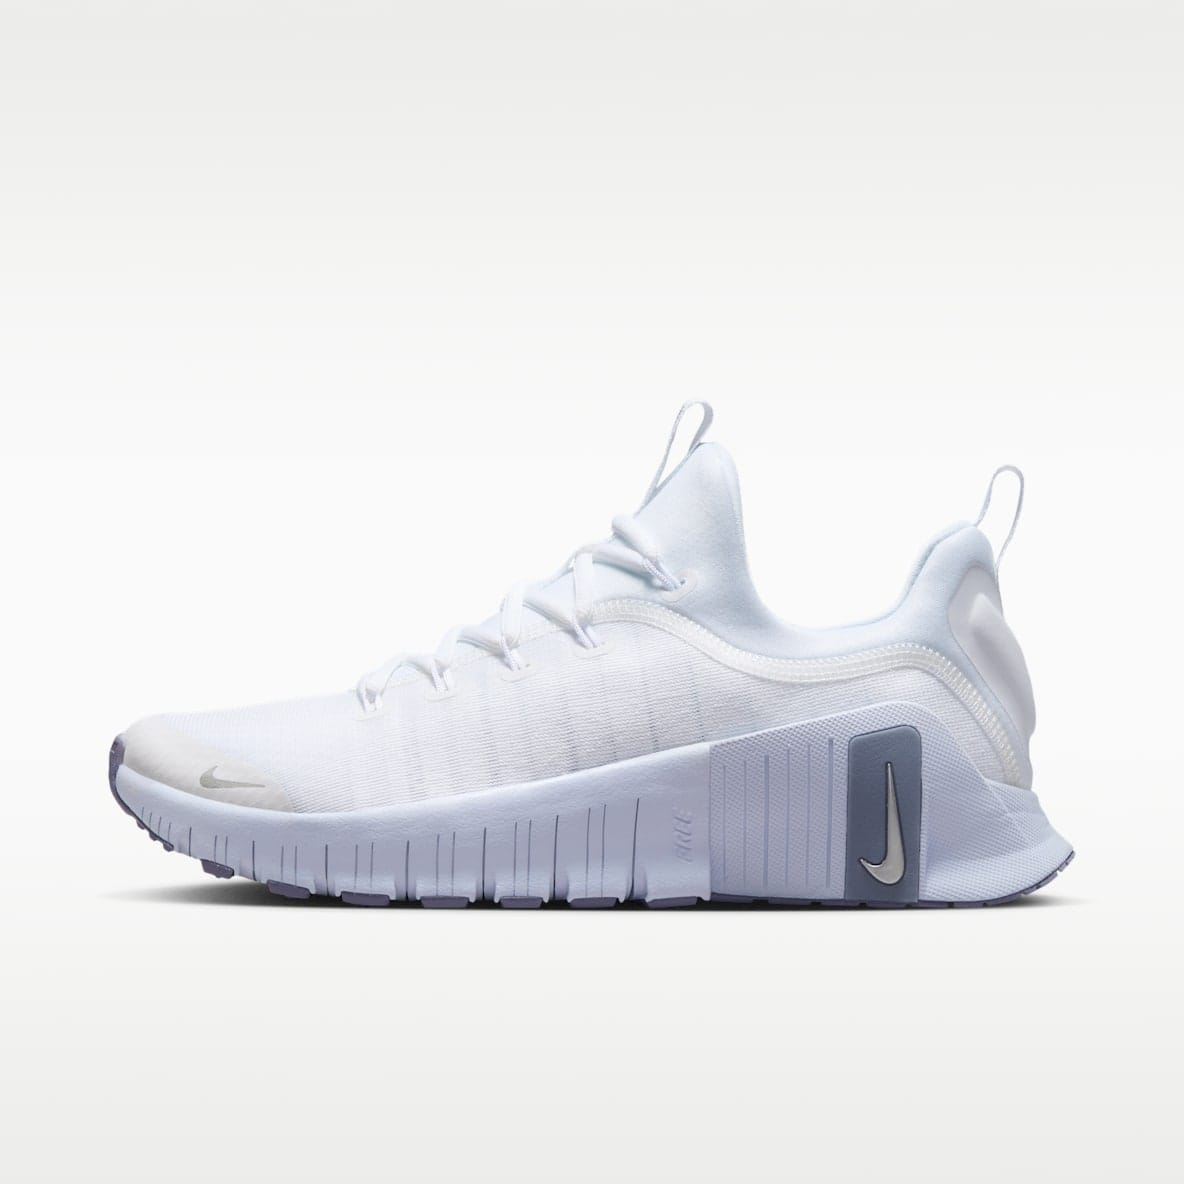
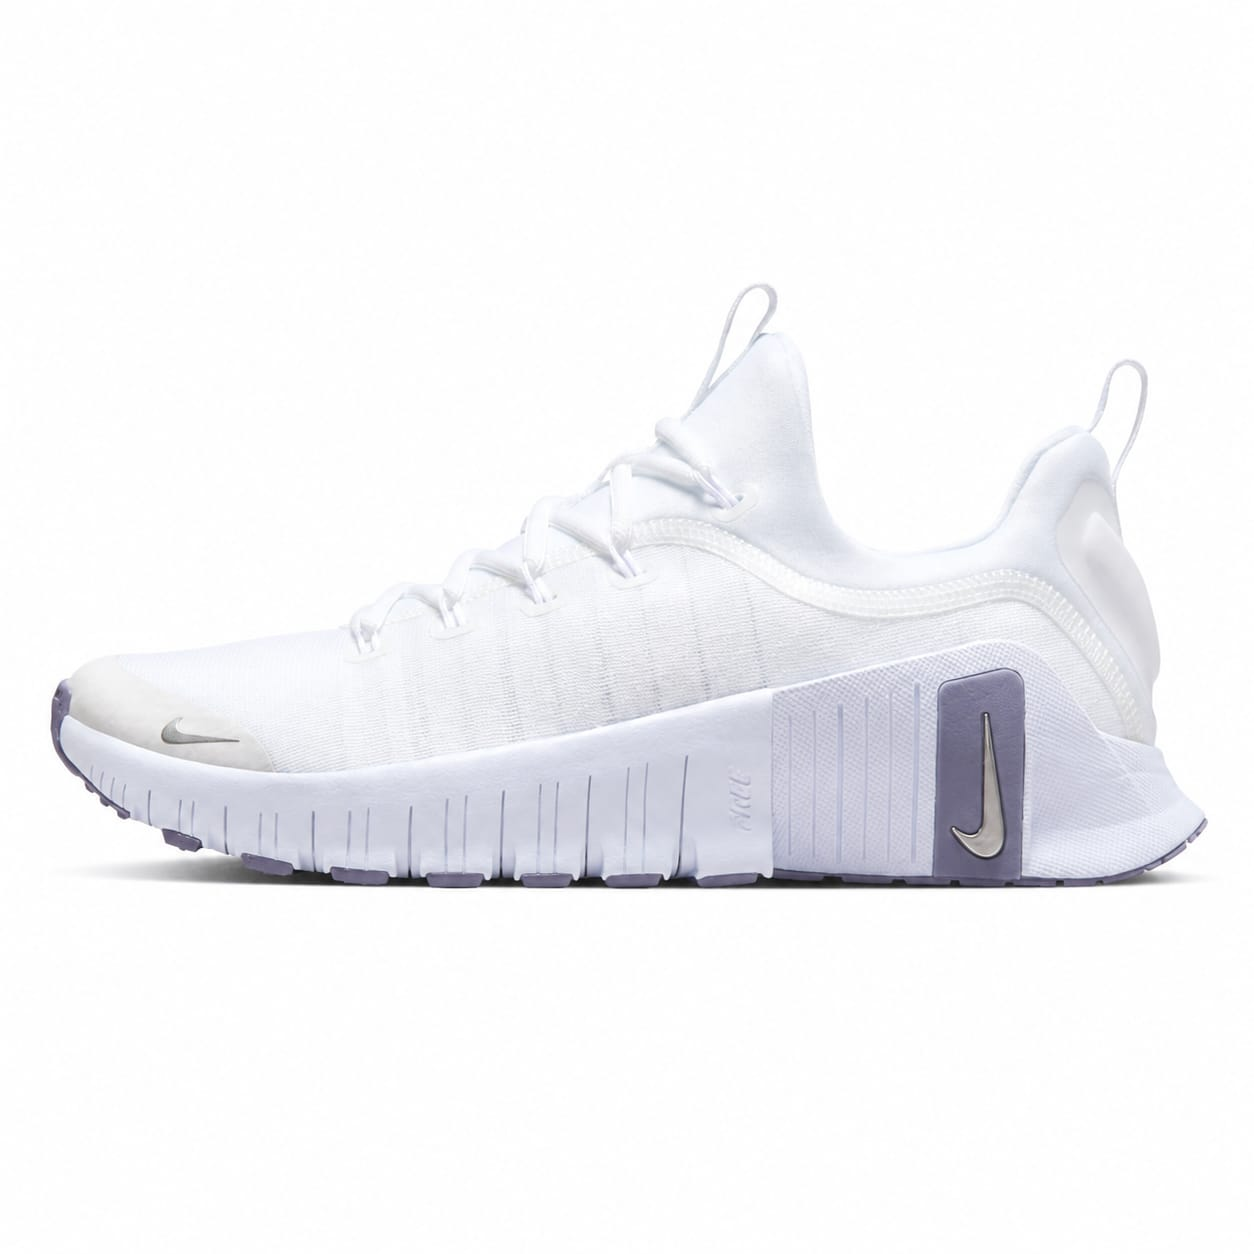
ya

diff --git a/index.html b/index.html
@@ -415,7 +415,7 @@ const data=[
     img:"5.jpeg",
     desc:"Metcon 6 Todo Blanco",
     type:"zapato"
-  }
+  },
 
   // Ejemplo de camisa
   /*
@@ -428,6 +428,15 @@ const data=[
     type:"camisa"
   }
   */
+
+  
+  {
+    name:"Camiseta Kappa",
+    price:750,
+    img:"6.jpeg",
+    desc:"Camiseta Kappa (Negra)",
+    type:"camisa"
+  }
 ];
 
 let selected=null;

diff --git a/service-worker.js b/service-worker.js
@@ -2,7 +2,7 @@
 // VERSION APP
 // =========================
 
-const CACHE_NAME = "horizon-v1";
+const CACHE_NAME = "horizon-v2";
 
 
 // =========================